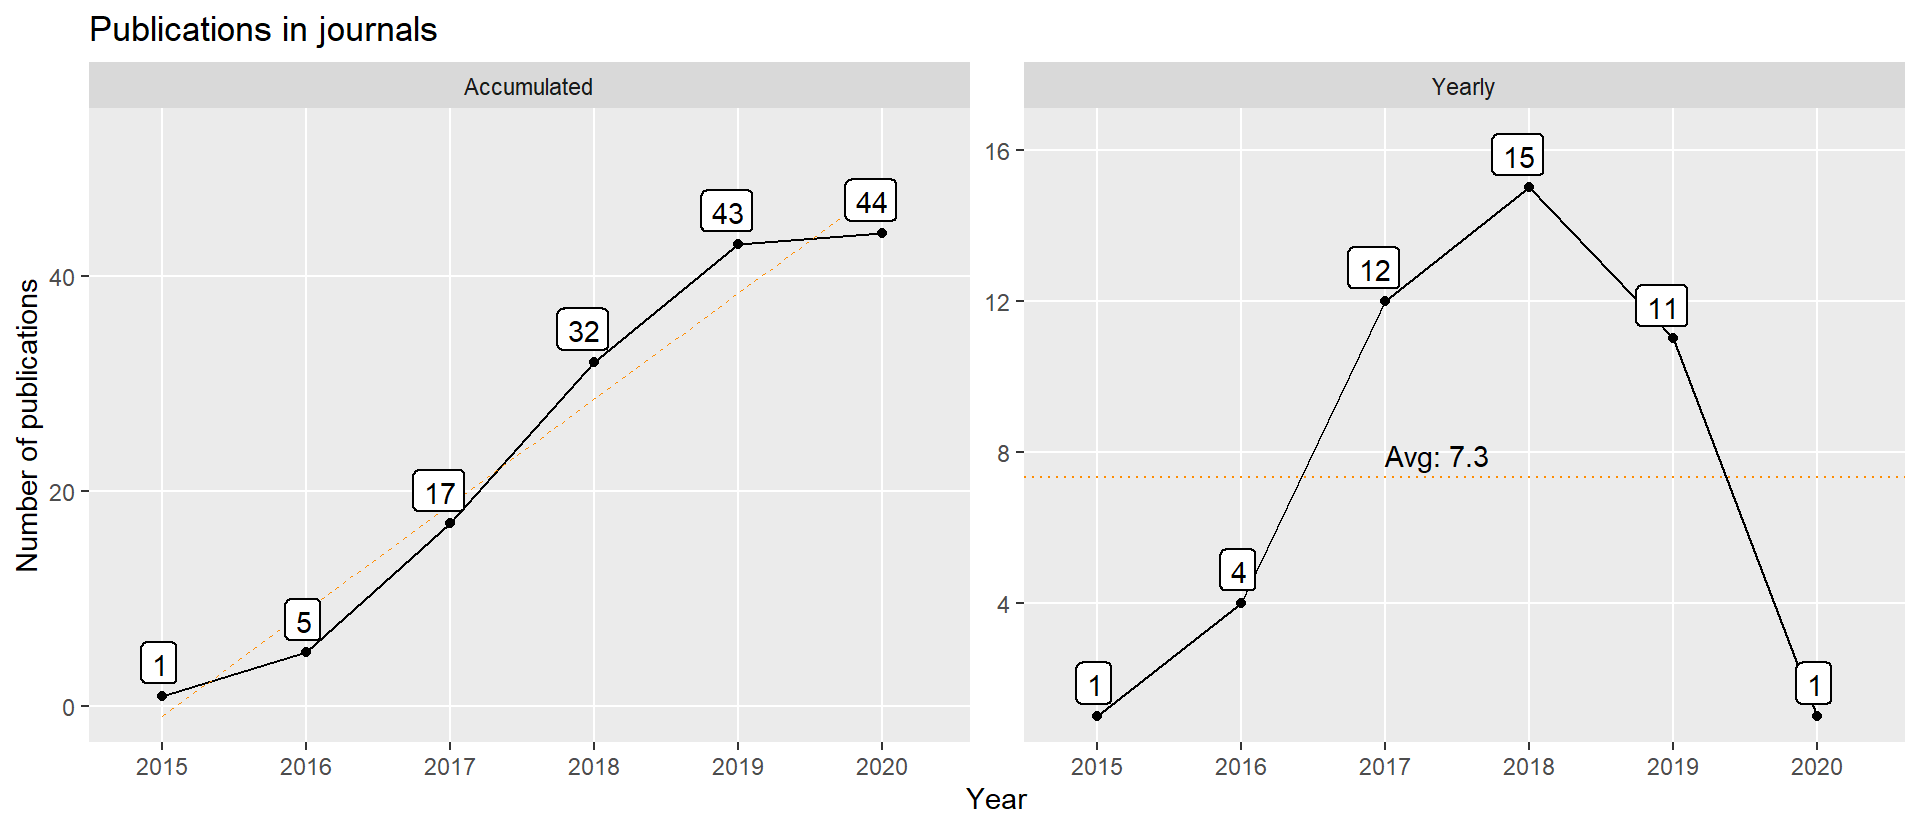
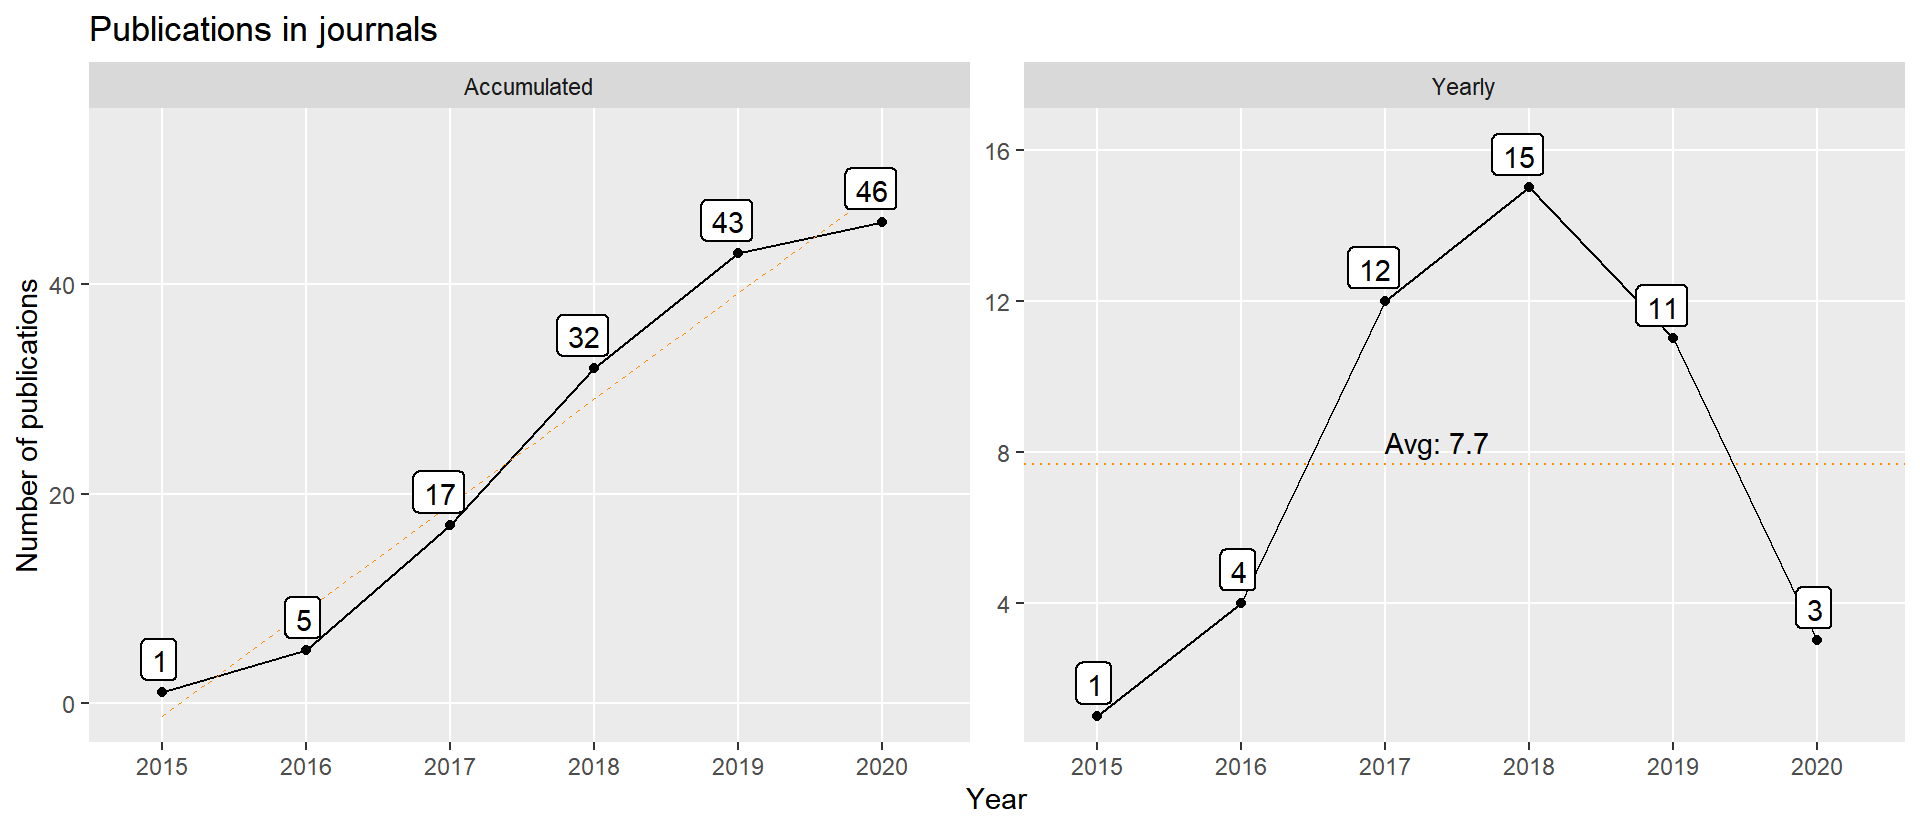
Update publication list

diff --git a/content/publication/my-md-folder/Diel2020a.md b/content/publication/my-md-folder/Diel2020a.md
@@ -1,0 +1,27 @@
++++
+title = "Repeatability coefficients and number of measurements for evaluating traits in strawberry"
+date = "2020-01-01"
+publication_types = ["2"]
+authors = ["Diel M.", "Lucio A.", "Olivoto T.", "Pinheiro M.", "Krysczun D.", "Sari B.", "Schmidt D."]
+publication = "In: **Acta Scientiarum. Agronomy**, 42(1):e43357, https://doi.org/10.4025/actasciagron.v42i1.43357, http://periodicos.uem.br/ojs/index.php/ActaSciAgron/article/view/43357"
+abstract = "The objective of this study was to estimate the coefficient of repeatability and the number of measurements required for production and quality variables in a strawberry crop. An experiment was conducted with two strawberry cultivars from two origins grown in four substrate mixtures, totaling 16 treatments, evaluated in a randomized block design with four replications. Mass (MF) and number (NF) of fruits per plant were evaluated as measures of production, and total soluble solids (SST), titratable acidity (AT) and firmness (FIR) of fruits during the crop cycle were evaluated as measures of quality. Subsequently, the repeatability coefficient was estimated by the following methods: analysis of variance (ANOVA), principal component analysis using a correlation matrix (PCcor), principal component analysis using a variance-covariance matrix (PCcov) and structural analysis (SA). The number of measurements was adjusted for each studied variable based on determination coefficients of 0.80, 0.85, 0.90, and 0.95. The repeatability coefficients ranged from low to medium. The ANOVA method gave the lowest r values, while the PCcov method presented the highest values of r. When using the PCcov method, 3.6, 2.9, 6.2, 3.2, and 3.8 measurements were needed to reach 80\\% confidence for the variables MF, NF, SST, AT, and FIR, respectively, and this increased to 7.3, 14.0, 29.6, 15.4, and 18.1 for 95\\% confidence in the results for MF, NF, SST, AT, and FIR, respectively."
+abstract_short = ""
+tags = ["strawberry", "biometrical models"]
+image_preview = ""
+selected = false
+projects = []
+url_pdf = ""
+url_preprint = ""
+url_code = ""
+url_dataset = ""
+url_project = ""
+url_slides = ""
+url_video = ""
+url_poster = ""
+url_source = ""
+math = true
+highlight = true
+[header]
+image = ""
+caption = ""
++++

diff --git a/content/publication/my-md-folder/NARDINO2020.md b/content/publication/my-md-folder/NARDINO2020.md
@@ -1,0 +1,27 @@
++++
+title = "Multivariate diallel analysis by factor analysis for establish mega-traits"
+date = "2020-01-01"
+publication_types = ["2"]
+authors = ["Nardino M.", "Barros W.", "Olivoto T.", "Cruz C.", "Silva F.", "Pelegrin A.", "Souza V.", "Carvalho I.", "Szareski V.", "Oliveira A.", "Maia L.", "Konflanz V."]
+publication = "In: **Anais da Academia Brasileira de Ci\\^encias**, 92(suppl 1):e20180874, https://doi.org/10.1590/0001-3765202020180874, http://www.scielo.br/scielo.php?script=sci\\_arttext\\&pid=S0001-37652020000201013\\&tlng=en"
+abstract = ""
+abstract_short = ""
+tags = ["multivariate diallel", "factor analysis", "maize"]
+image_preview = ""
+selected = false
+projects = []
+url_pdf = ""
+url_preprint = ""
+url_code = ""
+url_dataset = ""
+url_project = ""
+url_slides = ""
+url_video = ""
+url_poster = ""
+url_source = ""
+math = true
+highlight = true
+[header]
+image = ""
+caption = ""
++++
